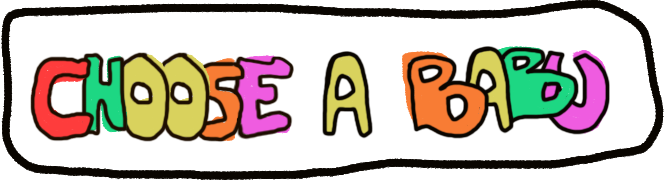
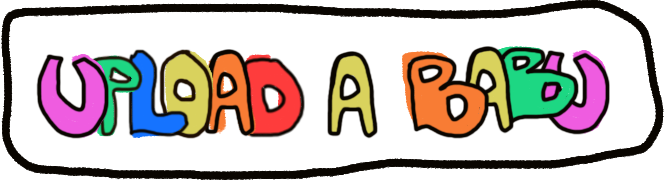
Add files via upload

Changed region(s): [[0.0301, 0.2778, 0.5723, 0.8056]]

diff --git a/index.html b/index.html
@@ -128,6 +128,26 @@
             justify-content: center;
             gap: 20px;
         }
+
+#input-id-wrapper {
+    display: flex;
+    flex-direction: column;
+    align-items: center;
+    margin-top: 10px;
+    text-align: center;
+}
+
+#imageIdInput {
+    width: 100px;
+    padding: 8px;
+    font-size: 16px;
+    margin-top: 5px;
+    border-radius: 4px;
+    border: 1px solid #ccc;
+    text-align: center;
+}
+
+
     </style>
 </head>
 <body>
@@ -142,6 +162,14 @@
             <input type="file" id="imageUpload" accept="image/*">
         </div>
     </div>
+
+<div id="input-id-wrapper">
+    <img id="title-image" src="images/id-title.png" alt="ID Title" style="width: 50%; margin-bottom: 5px;">
+    <input type="number" id="imageIdInput" min="1" max="690" placeholder="1-690">
+</div>
+
+
+
 
     <div id="thumbnail-container">
         <!-- The thumbnails will be dynamically created via JS -->
@@ -172,6 +200,59 @@
     const canvasFrame = document.getElementById('canvas-frame');
     let uploadedImage = null;
     let activeFuntraits = [];
+
+
+const imageIdInput = document.getElementById('imageIdInput');
+
+imageIdInput.addEventListener('change', function() {
+    const imageId = parseInt(imageIdInput.value);
+    if (imageId >= 1 && imageId <= 690) {
+        const imageUrl = `https://ipfs-gw.stargaze-apis.com/ipfs/bafybeictugfluo7kqbelwuuvlrzofgshgxuhznvjqyxgni6j3jeqzua6oa/${imageId}.png`;
+
+        console.log("Generated URL:", imageUrl);
+    } else {
+        alert("Please enter a valid ID between 1 and 690.");
+    }
+});
+
+function loadImageToCanvas(url) {
+    const titleImage = document.getElementById('title-image');
+    
+    // Affiche l'image de chargement
+    titleImage.src = 'images/loading.gif';
+
+    const img = new Image();
+    img.crossOrigin = "anonymous"; // Pour éviter les problèmes de CORS
+    img.onload = function() {
+        ctx.clearRect(0, 0, canvas.width, canvas.height); // Efface le canvas
+        ctx.drawImage(img, 0, 0, canvas.width, canvas.height); // Dessine l'image dans le canvas
+        uploadedImage = img; // Stocke l'image dans uploadedImage
+        buttonsContainer.style.display = 'flex'; // Affiche les boutons "Download" et "Copy"
+        canvasFrame.style.opacity = 1; // Montre le cadre du canvas
+        activateThumbnails(); // Active les thumbnails
+
+        // Remet l'image de titre une fois le chargement terminé
+        titleImage.src = 'images/id-title.png';
+    };
+    
+    img.src = url;
+}
+
+// Utilise loadImageToCanvas avec l'URL générée
+imageIdInput.addEventListener('change', function() {
+    const imageId = parseInt(imageIdInput.value);
+    if (imageId >= 1 && imageId <= 690) {
+        const imageUrl = `https://ipfs-gw.stargaze-apis.com/ipfs/bafybeictugfluo7kqbelwuuvlrzofgshgxuhznvjqyxgni6j3jeqzua6oa/${imageId}.png`;
+        loadImageToCanvas(imageUrl);
+    } else {
+        alert("Please enter a valid ID between 1 and 690.");
+    }
+});
+
+function activateThumbnails() {
+    document.querySelectorAll('#thumbnail-container img').forEach(thumb => thumb.classList.add('active'));
+}
+
 
     const funtraits = [
         { name: 'poopchest', src: 'funtraits/poopchest.png', z: 1, thumb: 'thumbnails/poopchest-thumbnail.png' },
